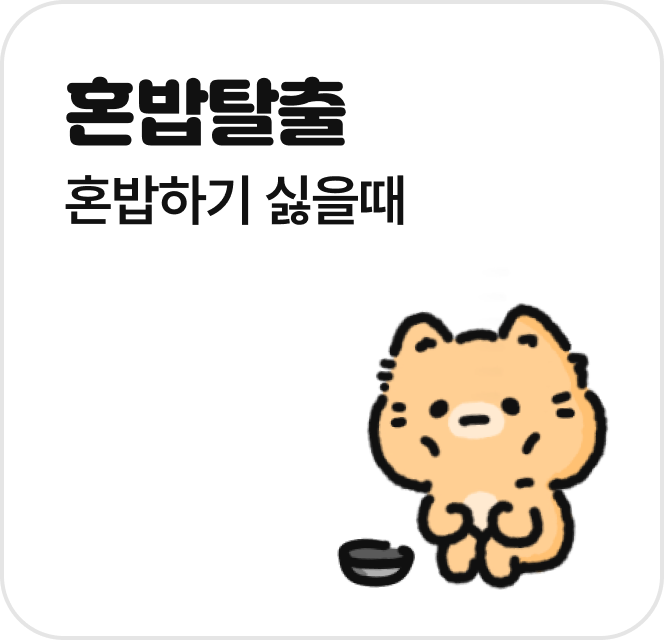
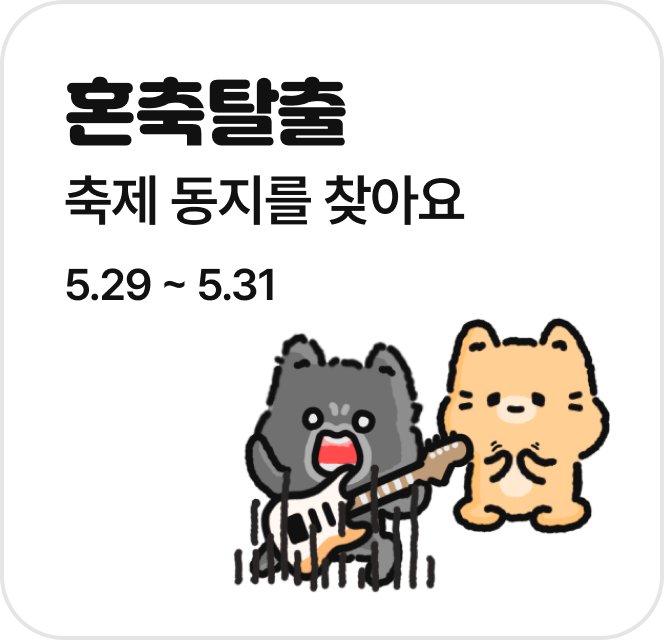
fix : 메인페이지 & 혼축탈출 start 이미지 수정

diff --git a/src/Pages/Honbob/info/HonbobStart.module.css b/src/Pages/Honbob/info/HonbobStart.module.css
@@ -62,12 +62,12 @@
   }
 
   .honbobLogo {
-    height: 45vh;
-    width: 30vh;
+    height: 48vh;
+    width: 35vh;
     background-image: url('../../../Assets/image/honbobStartLogo.png');
     background-repeat: no-repeat;
     background-position: center;
-    background-size: 100% 100%;
+    background-size: contain;
   }
 
   .informContext {
@@ -182,16 +182,16 @@
   }
 
   .honbobLogo {
-    height: 38vh;
-    width: 50vw;
+    height: 40vh;
+    width: 60vw;
     background-image: url('../../../Assets/image/honbobStartLogo.png');
     background-repeat: no-repeat;
     background-position: center;
-    background-size: 100% 100%;
+    background-size: contain;
   }
 
   .informContext {
-    margin-top: 5vh;
+    margin-top: 2vh;
     font-weight: 600;
     gap: 2%;
     display: flex;

diff --git a/src/Pages/Honbob/info/HonbobStart1.js b/src/Pages/Honbob/info/HonbobStart1.js
@@ -40,6 +40,9 @@ const HonbobStart1 = () => {
       console.log(error.message);
     }
   };
+  useEffect(() => {
+    countHonbabHandler();
+  }, []);
 
   return (
     <div className={style.Container}>
@@ -53,7 +56,7 @@ const HonbobStart1 = () => {
           <div className={style.honbobLogo}></div>
           <div className={style.informContext}>
             <div className={style.context1}>
-              '대동지'는 대동제 기간(5월 29일~5월 31일)동안
+              '혼축탈출'는 대동제 기간(5월 29일~5월 31일)동안
             </div>
             <div className={style.context1}>
               <b>함께 다닐 수 있는 학우를 구할 수 있는 프로그램입니다.</b>

diff --git a/src/Pages/main/MainPage/MainPage.js b/src/Pages/main/MainPage/MainPage.js
@@ -32,7 +32,6 @@ const MainPage = () => {
     navigate('/fest/animalcheck');
   };
 
-
   // 버디 상태 확인
   const BuddyHandler = async () => {
     if (refreshToken === null || accessToken === null) {
